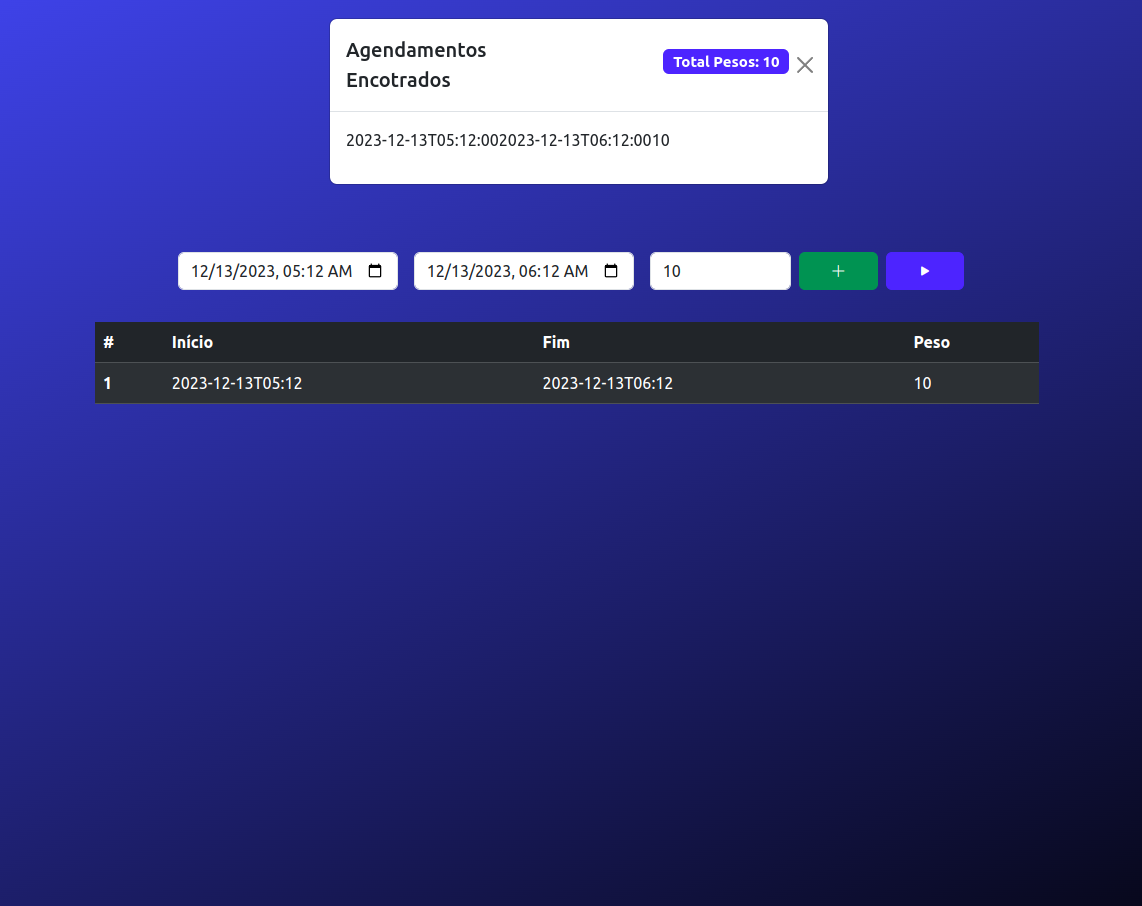
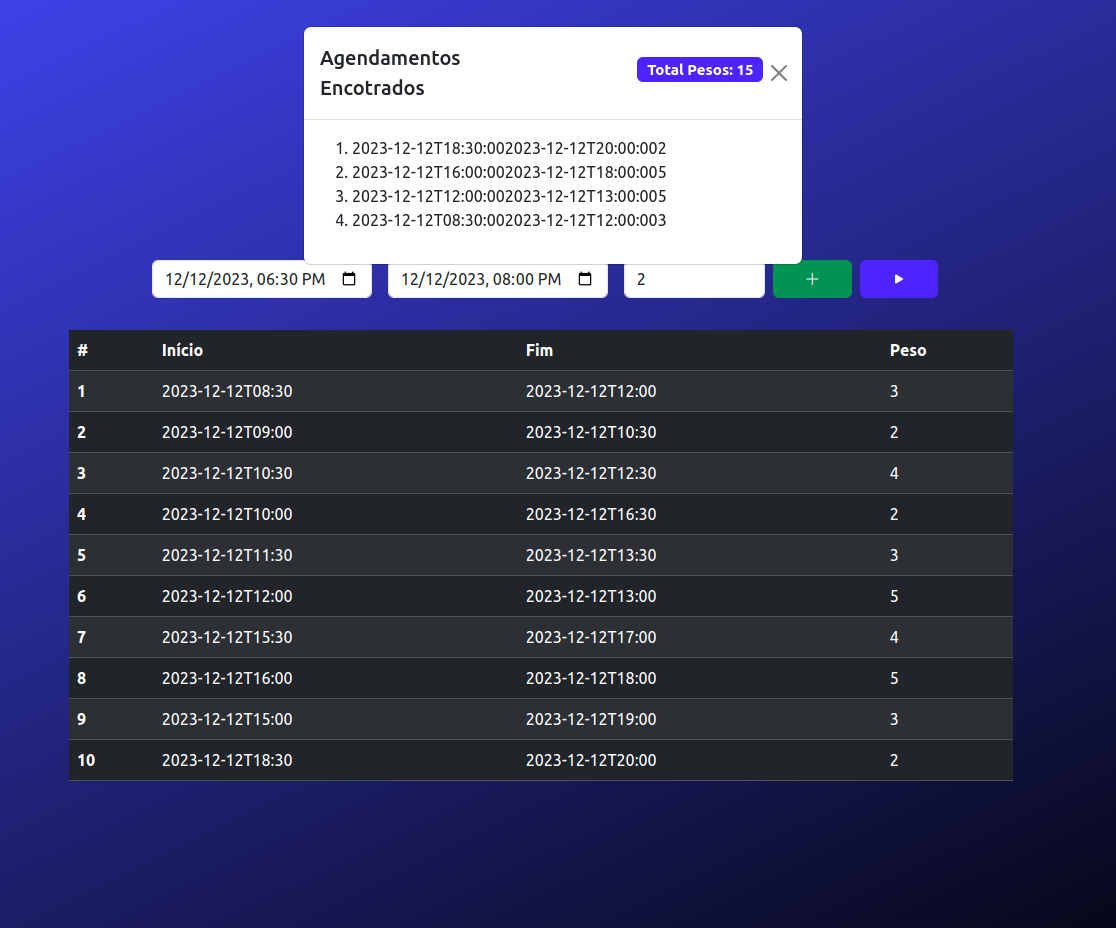
Fix bugs

diff --git a/weighted-interval-scheduling/templates/index.html b/weighted-interval-scheduling/templates/index.html
@@ -46,7 +46,7 @@
       </div>
     </div>
 
-    <div class="modal" tabindex="-1">
+    <div class="modal" tabindex="-1" id="modal_result">
       <div class="modal-dialog">
         <div class="modal-content">
           <div class="modal-header">
@@ -55,8 +55,8 @@
             <button type="button" class="btn-close" data-bs-dismiss="modal" aria-label="Close"></button>
           </div>
           <div class="modal-body" id="scheduling">
-              <div id="tasks">
-              </div>
+              <ol id="tasks">
+              </ol>
           </div>
         </div>
       </div>

diff --git a/weighted-interval-scheduling/static/script.py b/weighted-interval-scheduling/static/script.py
@@ -34,9 +34,14 @@ def addTask(evt):
 
 def on_complete(req):
     data = json.loads(req.text)
-    print(data.get('scheduled_tasks'))
-    document['tasks'] <= html.P(data.get('scheduled_tasks'))
+
     document['t_weight'] <= html.SPAN(data.get('t_weight'))
+
+    tasks = data.get('scheduled_tasks')
+    for task in tasks:
+        document['tasks'] <= html.LI(task)
+
+    document['modal_result'].style.display = 'block'
 
 def runScheduling(evt):
     table = document.getElementById('task-table')

diff --git a/weighted-interval-scheduling/app/routes.py b/weighted-interval-scheduling/app/routes.py
@@ -35,11 +35,13 @@ def route_runscheduling(request: Request, response_model=Message):
         item[2] = int(item[2])
     
     n = len(tasks)
+
     sorted_tasks = wis.sort_by_finish_time(tasks)
-    sorted_tasks.insert(0, [0, 0, 0]) 
+    sorted_tasks.insert(0, [0, 0, 0])
 
     wis.largest_compatible_indices(sorted_tasks, n-1)
     wis.iterative_compute_opt(sorted_tasks, n-1)
+
     wis.find_solution(n-1, sorted_tasks)
 
     t_weight = sum(item[2] for item in wis.scheduled_tasks)

diff --git a/weighted-interval-scheduling/app/weightedIntervalScheduling.py b/weighted-interval-scheduling/app/weightedIntervalScheduling.py
@@ -15,7 +15,7 @@ class WeightedIntervalScheduling:
     def largest_compatible_indices(self, sorted_tasks, n):
         self.p = [0] * (n + 1)
 
-        for j in range(2, n): # [h_inicio, h_fim, peso]
+        for j in range(1, n+1): # [h_inicio, h_fim, peso]
             for i in range(j - 1, 0, -1):
                 if sorted_tasks[i][1] <= sorted_tasks[j][0]:  
                     self.p[j] = i
